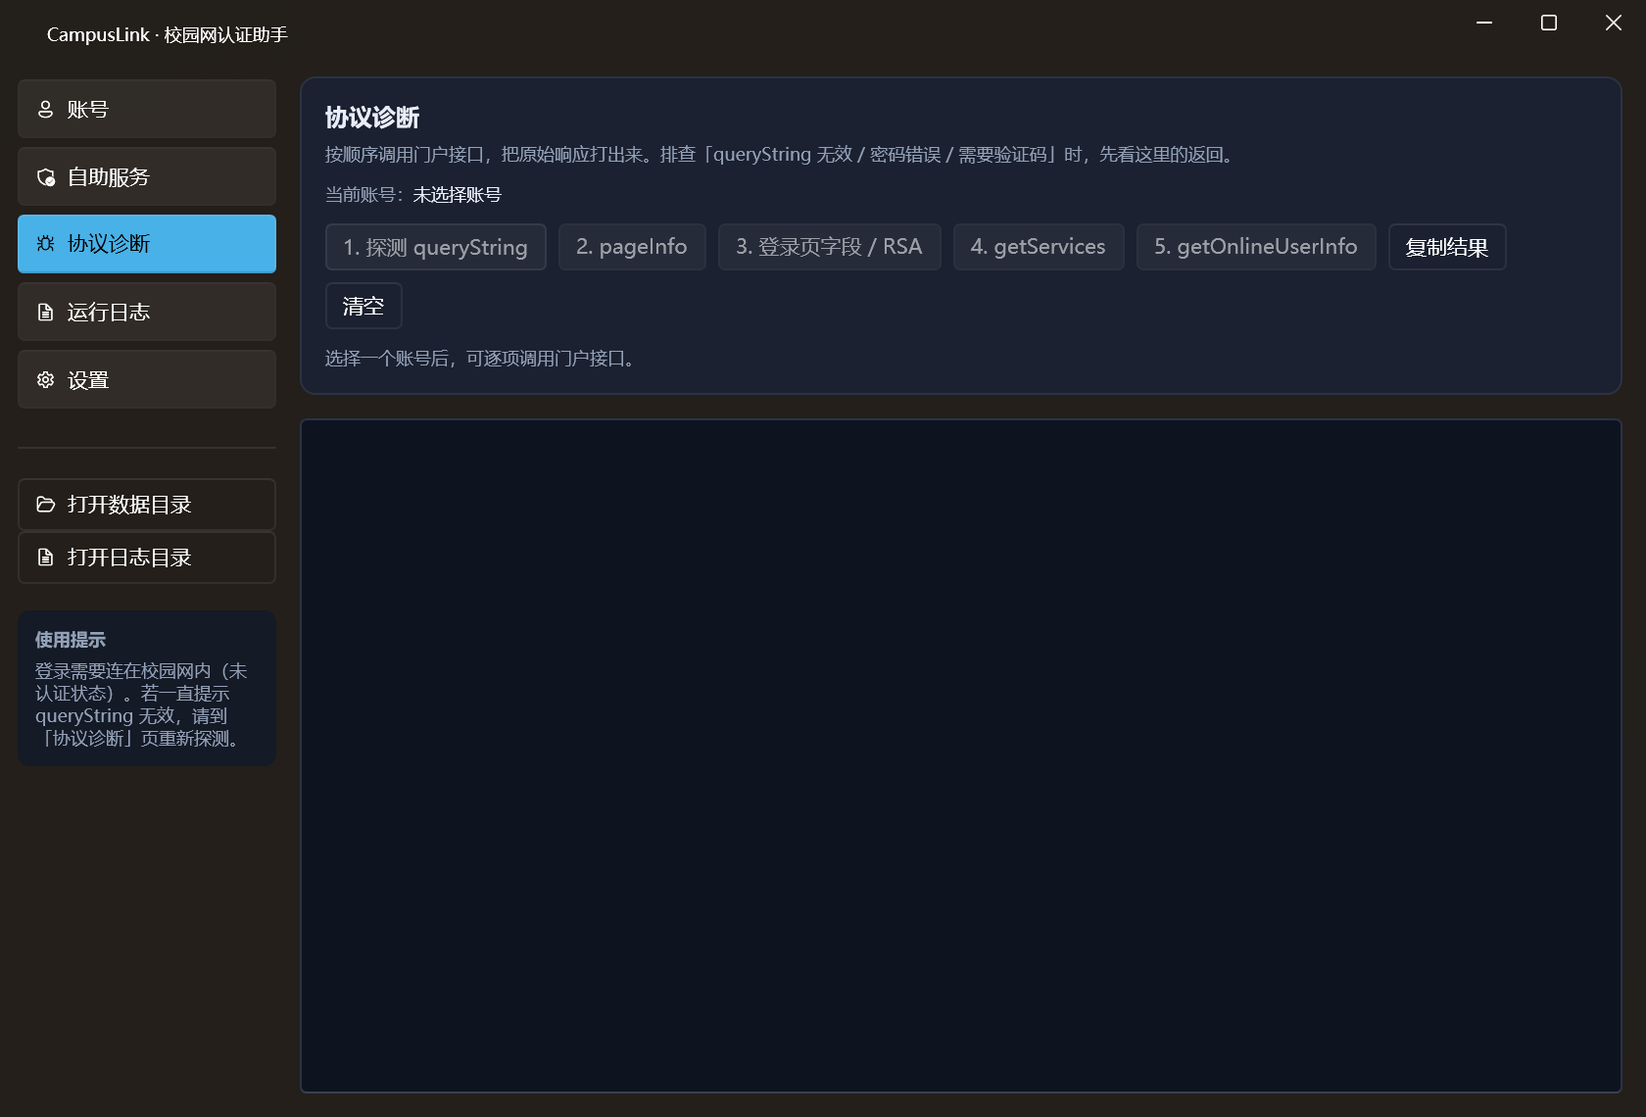
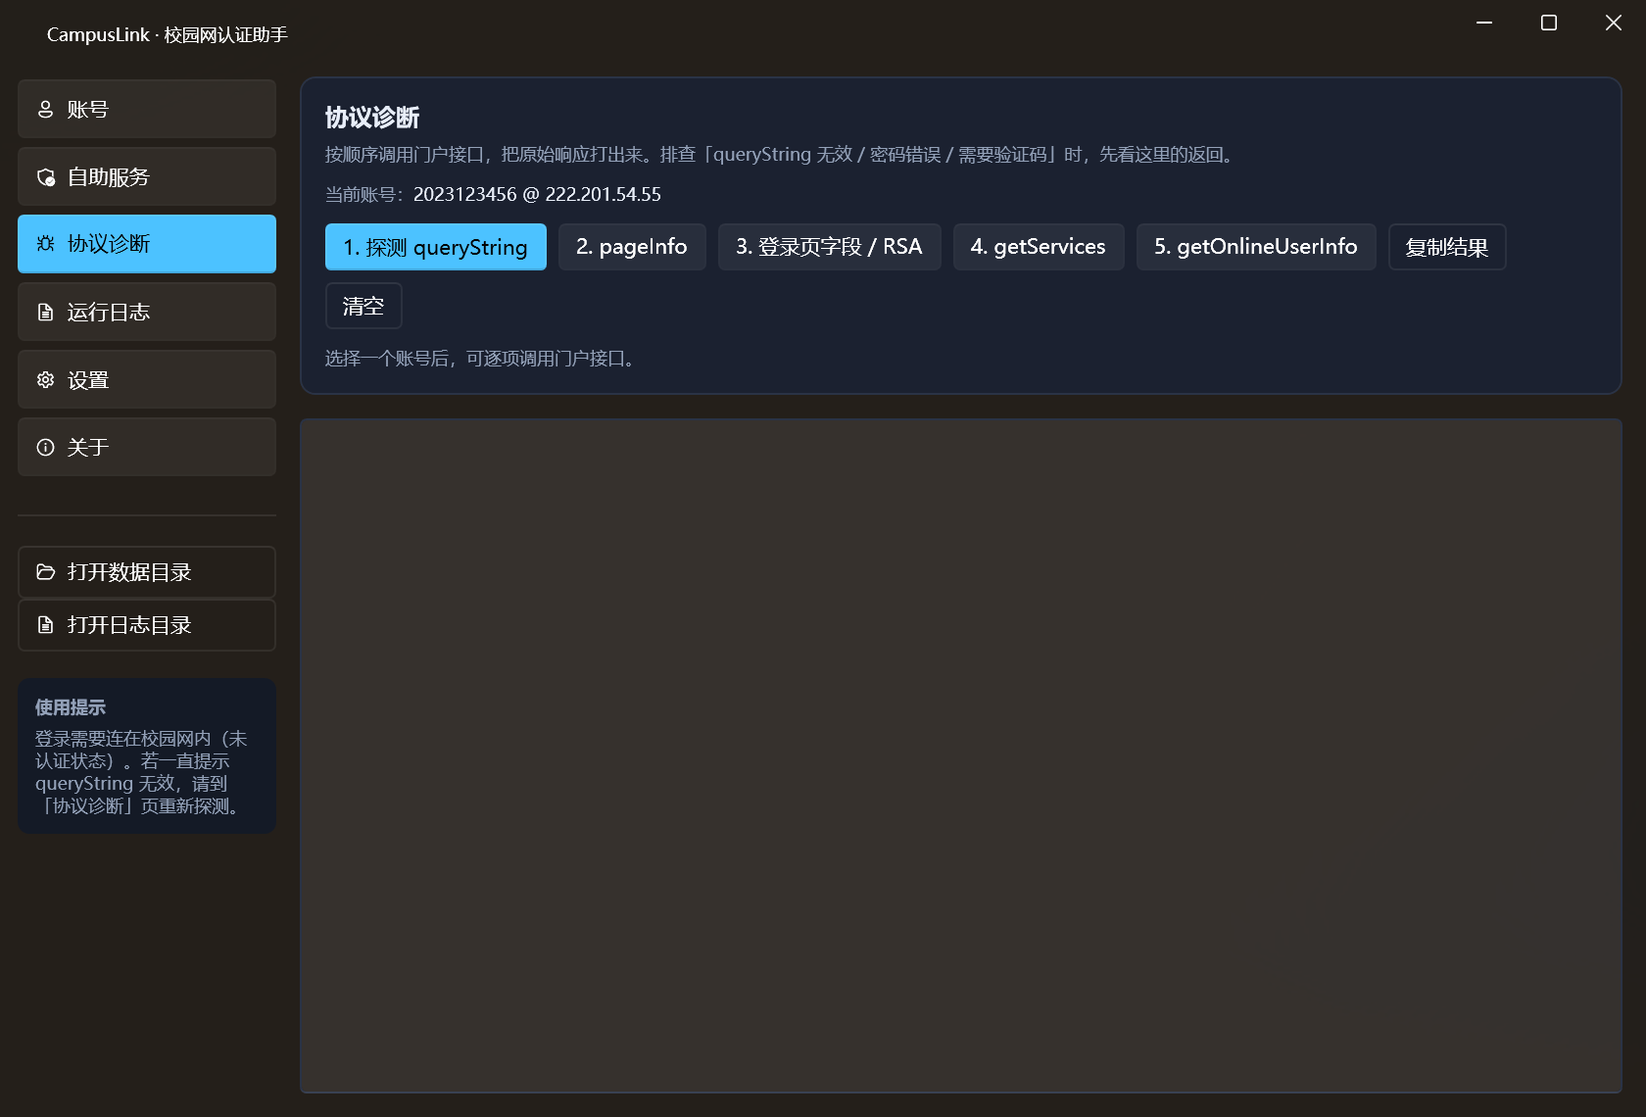
test(docs): 补充持久化/会话/网卡测试，更新界面截图与说明
- CoreTests 新增：MainViewModel 增删账号落盘与重载、旧配置兼容、
  在线免认证语义、真实登录 Verified、网卡枚举（共 44 项）
- README：网卡选择、按需编辑、在线/免认证语义、托盘折叠与单实例说明
- 交付说明：第二轮问题对照表与验证记录

diff --git a/tests/CoreTests/Program.cs b/tests/CoreTests/Program.cs
@@ -1,11 +1,14 @@
 using System;
 using System.Collections.Generic;
 using System.Globalization;
+using System.IO;
+using System.Linq;
 using System.Numerics;
 using System.Text;
 using CampusLink.Infrastructure;
 using CampusLink.Models;
 using CampusLink.Services;
+using CampusLink.ViewModels;
 using Newtonsoft.Json;
 
 namespace CoreTests
@@ -163,9 +166,142 @@ namespace CoreTests
             Console.WriteLine("== 自助服务（mock） ==");
             TestSelfService(log);
 
+            Console.WriteLine("== 账号持久化 / 会话语义 ==");
+            TestPersistence(log);
+            TestOnlineWithoutLogin(log);
+            TestVerifiedLogin(log);
+            TestAdapters();
+
             Console.WriteLine();
             Console.WriteLine("通过 " + _passed + " 项，失败 " + _failed + " 项");
             return _failed == 0 ? 0 : 1;
+        }
+
+        private static void TestPersistence(LogService log)
+        {
+            var dir = Path.Combine(Path.GetTempPath(), "campuslink-test-" + Guid.NewGuid().ToString("N"));
+            try
+            {
+                Directory.CreateDirectory(dir);
+                var store = new AccountStore(log, dir);
+                var vm = new MainViewModel(log, store);
+
+                vm.AddAccountCommand.Execute(null);
+                vm.EditorDisplayName = "测试账号";
+                vm.EditorUserId = "2023123456";
+                vm.SetEditorPassword("P@ss-中文-123");
+                vm.EditorPortalHost = "222.201.54.55";
+                vm.SelectedAdapter = vm.Adapters.FirstOrDefault();
+                vm.SaveAccountCommand.Execute(null);
+
+                Check("添加账号后立即落盘且可重新加载", () =>
+                {
+                    Assert(vm.Accounts.Count == 1, "内存里没有账号");
+                    Assert(File.Exists(Path.Combine(dir, "accounts.json")), "accounts.json 没有生成");
+
+                    var reloaded = new MainViewModel(log, new AccountStore(log, dir));
+                    Assert(reloaded.Accounts.Count == 1, "重新加载后账号数为 " + reloaded.Accounts.Count);
+                    Equal("2023123456", reloaded.Accounts[0].Profile.UserId, "学号");
+                    Equal("P@ss-中文-123", reloaded.Accounts[0].Profile.Password, "密码（DPAPI 解密）");
+                    Equal(vm.SelectedAdapter == null ? "" : vm.SelectedAdapter.Id,
+                        reloaded.Accounts[0].Profile.NicId, "网卡 Id");
+                });
+
+                Check("删除账号后配置也会持久化", () =>
+                {
+                    var reloaded = new MainViewModel(log, new AccountStore(log, dir));
+                    var persisted = new AccountStore(log, dir);
+                    persisted.SaveAccounts(Enumerable.Empty<AccountProfile>());
+                    var after = new MainViewModel(log, new AccountStore(log, dir));
+                    Assert(after.Accounts.Count == 0, "删除后仍有账号：" + after.Accounts.Count);
+                });
+
+                Check("旧版本配置文件（含 Mac/SourceIp 字段）仍能加载", () =>
+                {
+                    var legacy = "[{\"Id\":\"old1\",\"UserId\":\"2020000000\",\"PasswordCipher\":\"\",\"Mac\":\"AABBCCDDEEFF\",\"SourceIp\":\"192.168.1.5\",\"PortalHost\":\"222.201.54.55\"}]";
+                    File.WriteAllText(Path.Combine(dir, "accounts.json"), legacy, new UTF8Encoding(false));
+                    var loaded = new AccountStore(log, dir).LoadAccounts();
+                    Assert(loaded.Count == 1, "旧配置没有加载出来");
+                    Equal("2020000000", loaded[0].UserId, "旧配置学号");
+                });
+            }
+            finally
+            {
+                try { Directory.Delete(dir, true); } catch { }
+            }
+        }
+
+        private static void TestOnlineWithoutLogin(LogService log)
+        {
+            using (var portal = new MockPortal(req => MockResponse.Redirect(Absolute(req, "/eportal/redirectortosuccess.jsp"))))
+            {
+                var settings = new AppSettings { ProbeUrls = "http://127.0.0.1:" + portal.Port + "/" };
+                var profile = new AccountProfile
+                {
+                    UserId = "2023123456",
+                    Password = "随便乱输的密码",
+                    PortalHost = "127.0.0.1:" + portal.Port
+                };
+                var item = new AccountItemViewModel(profile, log, () => settings);
+                var result = item.LoginAsync(false).GetAwaiter().GetResult();
+
+                Check("探测到已在线时不算登录成功（不校验账号密码）", () =>
+                {
+                    Assert(result, "网络判定应可用");
+                    Assert(!item.Session.Verified, "不应标记为已登录");
+                    Assert(item.Session.UserIndex.Length == 0, "不应有 userIndex");
+                    Assert(item.StateText.Contains("免认证"), "状态应显示免认证，实际：" + item.StateText);
+                    Assert(item.Session.LastMessage.Contains("没有校验账号密码"), "应提示未校验账号密码");
+                });
+            }
+        }
+
+        private static void TestVerifiedLogin(LogService log)
+        {
+            using (var portal = new MockPortal(req =>
+            {
+                if (req.Path == "/") return MockResponse.Redirect(Absolute(req, "/eportal/index.jsp?c=ACSW&mac=AABBCCDDEEFF"));
+                if (req.Path.StartsWith("/eportal/index.jsp", StringComparison.Ordinal))
+                    return MockResponse.Text("<input name=\"passwordEncrypt\" value=\"false\" />");
+                if (req.Path == "/eportal/InterFace.do")
+                    return MockResponse.Json("{\"userIndex\":\"UI-777\",\"result\":\"success\",\"keepaliveInterval\":120}");
+                return new MockResponse { Status = 404 };
+            }))
+            {
+                var settings = new AppSettings { ProbeUrls = "http://127.0.0.1:" + portal.Port + "/" };
+                var profile = new AccountProfile
+                {
+                    UserId = "2023123456",
+                    Password = "pwd",
+                    PortalHost = "127.0.0.1:" + portal.Port
+                };
+                var item = new AccountItemViewModel(profile, log, () => settings);
+                var result = item.LoginAsync(false).GetAwaiter().GetResult();
+
+                Check("门户要求认证时走真实登录并标记 Verified", () =>
+                {
+                    Assert(result, "登录应成功");
+                    Assert(item.Session.Verified, "应标记为已登录");
+                    Equal("UI-777", item.Session.UserIndex, "userIndex");
+                    Equal("在线", item.StateText, "状态文案");
+                });
+            }
+        }
+
+        private static void TestAdapters()
+        {
+            Check("网卡枚举返回合法 MAC", () =>
+            {
+                var adapters = NetworkAdapterService.GetAdapters();
+                foreach (var adapter in adapters)
+                {
+                    Assert(adapter.Mac.Length == 12, "MAC 长度异常：" + adapter.Mac);
+                }
+            });
+            Check("网卡查找找不到时返回 null", () =>
+            {
+                Assert(NetworkAdapterService.Find("不存在的网卡") == null, "应返回 null");
+            });
         }
 
         private static string Absolute(MockRequest request, string path)

diff --git a/CampusLink/README.md b/CampusLink/README.md
@@ -9,12 +9,12 @@
 | 模块 | 内容 |
 | --- | --- |
 | 核心认证 | 探测受 AC 拦截的 302 → 自动提取 `queryString` → 登录 → 按 `keepaliveInterval` 保活 → 下线 → 在线信息查询 |
-| MAC 无感 | 登录后调用 `registerMac` 注册无感认证；`cancelMacWithUserNameAndMac` 解绑 |
-| 多账号 | 账号列表 / 切换 / 一键全部登录 / 强制下线（`logoutByUserIdAndPass`）；每个账号可独立配置门户地址与源 IP |
+| MAC 无感 | 登录后调用 `registerMac` 注册无感认证；`cancelMacWithUserNameAndMac` 解绑；MAC 来自账号绑定的**网卡**，不需要手填 |
+| 多账号 | 账号列表 / 切换 / 一键全部登录 / 强制下线（`logoutByUserIdAndPass`）；每个账号绑定一块网卡（决定认证 MAC 与源 IP）和独立门户地址 |
 | 自动化 | 启动自动登录、掉线探测自动重连、登录后自动注册 MAC 无感 |
-| 自助服务 | 抓 RSA 公钥 + 验证码图片、登录校验、默认密码检测（验证码人工识别） |
+| 自助服务 | 只能选「账号」页里已保存的账号；抓 RSA 公钥 + 验证码图片、登录校验、默认密码检测（验证码人工识别） |
 | 协议诊断 | 逐接口调用并把原始响应打印出来（排错 `queryString` / 密码加密模式 / 服务列表） |
-| 系统集成 | 托盘图标与菜单、开机自启、关闭/最小化到托盘、按天滚动日志 |
+| 系统集成 | 单实例运行、托盘图标与菜单、开机自启、按天滚动日志；关闭窗口默认退出（可改为最小化到托盘） |
 | 安全 | 密码用 Windows DPAPI（当前用户）加密存盘；日志自动脱敏 `password/pass/pwd/verifycode` |
 
 ## 环境与构建
@@ -33,22 +33,34 @@ msbuild CampusLink.csproj -t:Restore,Build -p:Configuration=Release
 ## 快速上手
 
 1. 电脑连上校园网，**先不要用浏览器登录**。
-2. 「账号」页 → **新建账号**：填学号、密码，门户地址默认 `222.201.54.55`。
-3. 点卡片上的 **登录**。成功后可再点 **无感注册**，让本机 MAC 之后长期直通。
-4. 需要常驻：在「设置」里打开 **开机自动启动**、**关闭窗口时最小化到托盘**、**掉线自动重连**。
+2. 「账号」页 → 左上角 **添加账号**：填学号、密码，在「认证网卡」里选中你正在联网的那块网卡，门户地址默认 `222.201.54.55`。
+3. 保存后点卡片上的 **登录**。成功后可再点 **无感注册**，让该网卡的 MAC 之后长期直通。
+4. 要改账号：点卡片上的 **编辑**；要删账号：进编辑面板后点 **删除账号**（会二次确认）。
+5. 需要常驻：在「设置」里打开 **开机自动启动**、**关闭窗口时最小化到托盘**、**掉线自动重连**。
 
-> 如果门户已经显示「已在线（AC 返回成功页）」，说明这个 MAC 已经在免认证状态，不需要再登录。
+> 如果门户已经显示「已在线（AC 返回成功页）」，说明这个 MAC 已经在免认证状态，**此时程序不会校验账号密码**，卡片会显示 `在线·免认证`。
 
 ## 界面
 
 | 页面 | 作用 |
 | --- | --- |
-| 账号 | 账号卡片、登录/下线/探测/无感注册/解绑/在线信息、账号编辑面板 |
-| 自助服务 | 取验证码 → RSA 登录校验 / 默认密码检测，一键打开自助服务网站 |
+| 账号 | 账号卡片（登录/下线/探测/编辑/无感注册/解绑/在线信息）；默认只显示卡片列表，点「添加账号」或「编辑」才弹出表单 |
+| 自助服务 | 从已保存账号里选一个 → 取验证码 → RSA 登录校验 / 默认密码检测，一键打开自助服务网站 |
 | 协议诊断 | 探测 queryString、pageInfo、登录页字段与 RSA 公钥、getServices、getOnlineUserInfo，原始响应可复制 |
 | 运行日志 | 实时日志列表、清空、打开日志目录 |
 | 设置 | 探测地址、密码加密模式、RSA 分隔符、自动重连间隔、开机自启、托盘行为、自助服务地址 |
 | 关于 | 版本信息、作者社交媒体、赞助码、说明与免责 |
+
+### 登录状态语义（重要）
+
+| 卡片状态 | 含义 |
+| --- | --- |
+| `在线` | 真的走通了 `login` 接口，拿到 `userIndex`，账号密码已通过门户校验 |
+| `在线·免认证` | 门户返回 `redirectortosuccess.jsp`，说明这块 MAC 已被 AC 放行；**本次没有校验账号密码** |
+| `待认证` | 拿到了 `queryString`，还没登录 |
+| `离线` / `异常` | 已下线 / 探测失败或接口报错 |
+
+想验证某个账号的密码对不对，请用「自助服务 → 登录校验」（需要输验证码）；在该 MAC 已注册无感的前提下，直接点「登录」是不会触发密码校验的。
 
 ![自助服务页](../docs/screenshots/selfservice.png)
 
@@ -104,9 +116,13 @@ msbuild CampusLink.csproj -t:Restore,Build -p:Configuration=Release
 | `用户名或密码错误` | 凭据错，或密码加密模式不对。先用「自动」，不行再试强制明文 / 强制 RSA，并核对分隔符 |
 | 提示需要验证码 | 弹窗会显示验证码图片，照图输入；失败会刷新图片重试 |
 | 登录成功但很快掉线 | 密码复杂度不足（`PWD_COMPLEX_OFFLINE_WEB`），去自助服务改密 |
-| 注册了 MAC 还弹认证 | MAC 格式不对或绑定被顶掉：先「解绑 MAC」再重新注册 |
+| 注册了 MAC 还弹认证 | 先「解绑 MAC」再重新注册；确认账号绑定的网卡就是实际联网的那块 |
 | 探不到 queryString | 可能已经在线，或当前不在校园网。门户根返回 `redirectortosuccess.jsp` 就代表在线 |
+| 乱输密码也显示「在线」 | 这是 `在线·免认证`：该 MAC 已被 AC 放行，门户根本没校验密码。要用「自助服务 → 登录校验」验证账号 |
+| 看不到托盘图标 | Windows 11 默认把新图标收进任务栏「^ 隐藏的图标」。设置 → 个性化 → 任务栏 → 其他系统托盘图标 → 打开 CampusLink；程序内「设置」页也有直达按钮 |
 | 设置了开机自启但没生效 | 检查 `HKCU\Software\Microsoft\Windows\CurrentVersion\Run` 是否有 `CampusLink` 值 |
+| 双击 exe 没反应 | 程序是单实例的：已有实例在跑时会直接把它的窗口唤到前台 |
+| 关闭窗口程序就没了 | 默认关闭即退出；要常驻请在「设置」里勾选「关闭窗口时最小化到托盘」 |
 
 ## 目录结构
 
@@ -114,14 +130,15 @@ msbuild CampusLink.csproj -t:Restore,Build -p:Configuration=Release
 CampusLink/
 ├─ CampusLink.csproj / CampusLink.slnx
 ├─ App.xaml(.cs) / MainWindow.xaml(.cs)
-├─ Models/          账号、设置、会话状态、接口结果
+├─ Models/          账号（含网卡绑定）、设置、会话状态、接口结果
 ├─ Services/        HttpTransport、PortalClient、RuijieRsa、SelfServiceClient、
 │                   AccountStore、KeepaliveService、AutoReconnectService、
-│                   StartupService、TrayService
+│                   StartupService、TrayService、NetworkAdapterService、ShellHelper
 ├─ ViewModels/      Main / AccountItem / Settings / SelfService / Diagnostics / About
 ├─ Views/           AccountsPage / SelfServicePage / DiagnosticsPage / LogsPage /
 │                   SettingsPage / AboutPage / CaptchaDialog
-├─ Infrastructure/  ObservableObject、RelayCommand、LogService、JsonHelper、UiDispatcher
+├─ Infrastructure/  ObservableObject、RelayCommand、LogService、JsonHelper、UiDispatcher、
+│                   SingleInstance、ValueConverters
 └─ Resources/       app-icon.svg（矢量源）、app.ico（多尺寸）、app-icon-256.png、sponsor.jpg
 ```
 

diff --git a/docs/交付说明.md b/docs/交付说明.md
@@ -21,7 +21,7 @@
 
 ### 2. 协议层自动化测试
 
-`tests/CoreTests` 用 TcpListener 起了一个 mock 门户，覆盖真实请求/响应格式，**37 项全部通过**：
+`tests/CoreTests` 用 TcpListener 起了一个 mock 门户，覆盖真实请求/响应格式，**44 项全部通过**：
 
 - 编码：`encodeURIComponent` 语义（保留 `-_.!~*'()`）、中文 UTF-8、百分号、双重编码
 - MAC 归一化（去分隔符 + 大写）
@@ -33,32 +33,53 @@
 - 保活 / 无感注册（MAC 归一化）/ 解绑 / 下线 / 下线全部会话（单次编码）/ getOnlineUserInfo / getServices / pageInfo
 - 自助服务：公钥+验证码获取、登录成功、验证码错误、密码错误三种分支判定
 
-运行结果：`通过 37 项，失败 0 项`。
+运行结果：`通过 44 项，失败 0 项`（含账号持久化、在线语义、网卡枚举）。
 
 ### 3. 界面验证
 
-在本机启动程序并逐页截图（`docs/screenshots/`），并用 WPF 绑定追踪把绑定错误写进日志：**无绑定错误**。
+在本机启动程序并逐页截图（`docs/screenshots/`），再用 UI Automation 逐项点检：
 
-- 账号页：新建/编辑/保存、账号卡片状态色、无感注册等按钮、密码框样式
-- 自助服务页：验证码图片区域、状态与结果提示
-- 协议诊断页：五个接口按钮、原始响应输出框
-- 运行日志页、设置页、关于页（社交媒体 + 赞助码）
+- 账号页：默认只显示卡片；点「添加账号」才弹表单；「编辑」「删除账号」可用；删除会弹二次确认
+- 协议诊断：账号存在时五个接口按钮均可点击（此前因命令未刷新 CanExecute 一直是灰的）
+- 自助服务：账号下拉框来自「账号」页，学号只读、密码取保存值
+- 打开数据目录/日志目录：UI Automation 触发后日志写入 `已打开目录：...`
+- 托盘：UIA 在任务栏溢出区找到 `CampusLink` 按钮（Windows 11 默认折叠）
+- 单实例：第二次启动不产生新进程，会唤醒已有窗口
+- 重启：账号配置从 `accounts.json` 正常载入（日志 `已载入 N 个账号`）
 
 ### 4. 现场网络
 
-测试机当前处于校园网已认证状态：`GET http://222.201.54.55/` 返回 `302 → /eportal/redirectortosuccess.jsp`，程序正确识别为「已在线（AC 返回成功页）」。
+测试机当前处于校园网已认证状态：`GET http://222.201.54.55/` 返回 `302 → /eportal/redirectortosuccess.jsp`，程序识别为 `在线·免认证`（并明确提示「本次没有校验账号密码」）。
 
-> 未做真实账号登录：没有可用凭据，也不应在未经授权的情况下验证。
+> 未做真实账号密码登录：该 MAC 已被 AC 放行，校园网不会下发 `queryString` 供登录；要触发真实登录需要先让该 MAC 掉线（会中断你当前的网络），所以没有擅自操作。
 
-## 三、已知限制
+## 三、第二轮问题修复对照
+
+| # | 问题 | 处理 |
+| --- | --- | --- |
+| 1 | 协议诊断按钮点不了 | 命令改为挂 `CommandManager.RequerySuggested`，选中账号/操作结束后自动刷新可用状态 |
+| 2 | 「新建账号」改名 | 改为「添加账号」 |
+| 3 | 编辑面板一直显示 | 默认隐藏，只有点「添加账号」或卡片「编辑」才弹出 |
+| 4 | 手填 MAC | 删除 MAC/源 IP 输入，改为选择「认证网卡」，MAC 与源 IP 从网卡读取 |
+| 5 | 删除账号用不了 | 同上 CanExecute 修复，并保留二次确认 |
+| 6 | 乱输密码也显示在线 | 区分「在线」与「在线·免认证」：探测到已在线时明确提示未校验账号 |
+| 7 | 托盘图标看不到 | 图标改用内嵌资源加载；确认在 Win11 溢出区；新增「打开任务栏设置」直达按钮与气泡提示；默认关闭窗口即退出 |
+| 8 | 重启后配置丢失 | 保存后立即落盘 + 关闭时再落盘 + 日志记录保存条数；新增回归测试 |
+| 9 | 打开目录按钮用不了 | 改走 `explorer.exe` 并记录日志；失败不再静默 |
+| 10 | 自助服务可用任意账号 | 改为只能从「账号」页已保存账号中选择，学号/密码取自账号配置 |
+| 11 | 测试账号 | 仅用于会话内测试，未写入仓库任何文件（仓库里不含该学号/密码） |
+| 12 | git 提交 | 已初始化根仓库并分多次提交（不 push） |
+
+## 四、已知限制
 
 1. **`passwordEncrypt` 真实取值未确认**：资料里未能拿到真实登录页隐藏字段。已实现「自动 / 强制明文 / 强制 RSA」三种模式与 `>`、`>>` 两种分隔符可切换，并提供诊断页核对。
 2. **服务列表**：广大现场 `getServices` 返回空数组，`service` 参数默认留空；如报「请选择服务」，可从诊断页拿到服务名后填进账号设置。
 3. **自助服务验证码**：离线没有可靠的 C# OCR 方案（资料里的 `ddddocr` 是 Python 库），因此保留人工输入；登录后的改密/余额页面是 JSF 动态页，未做接口化，走浏览器。
-4. **多账号 + 源 IP**：同一网卡下多账号会互相顶掉，真实多账号聚合场景需要多网卡/多个源 IP，账号编辑面板已支持绑定源 IP。
-5. **托盘图标**依赖 WinForms `NotifyIcon`（.NET Framework 自带，不需要额外 NuGet）。
+4. **多账号 + 网卡**：同一块网卡下多个账号会互相顶掉；真实多账号聚合需要为每个账号绑定不同网卡。
+5. **托盘图标**依赖 WinForms `NotifyIcon`（.NET Framework 自带，不需要额外 NuGet）；Win11 默认折叠，需要用户手动打开常驻。
+6. **真实密码校验**：MAC 已注册无感时门户不会下发 `queryString`，只能通过自助服务（需验证码）验证账号密码。
 
-## 四、可继续做的方向
+## 五、可继续做的方向
 
 - 拿到真实 `passwordEncrypt` 后，把默认模式收敛为实测值，删掉手动开关（或保留高级选项）。
 - 自助服务验证码接 `ddddocr` 的本地 HTTP sidecar，或 Windows.Media.Ocr 做预识别 + 人工兜底。
